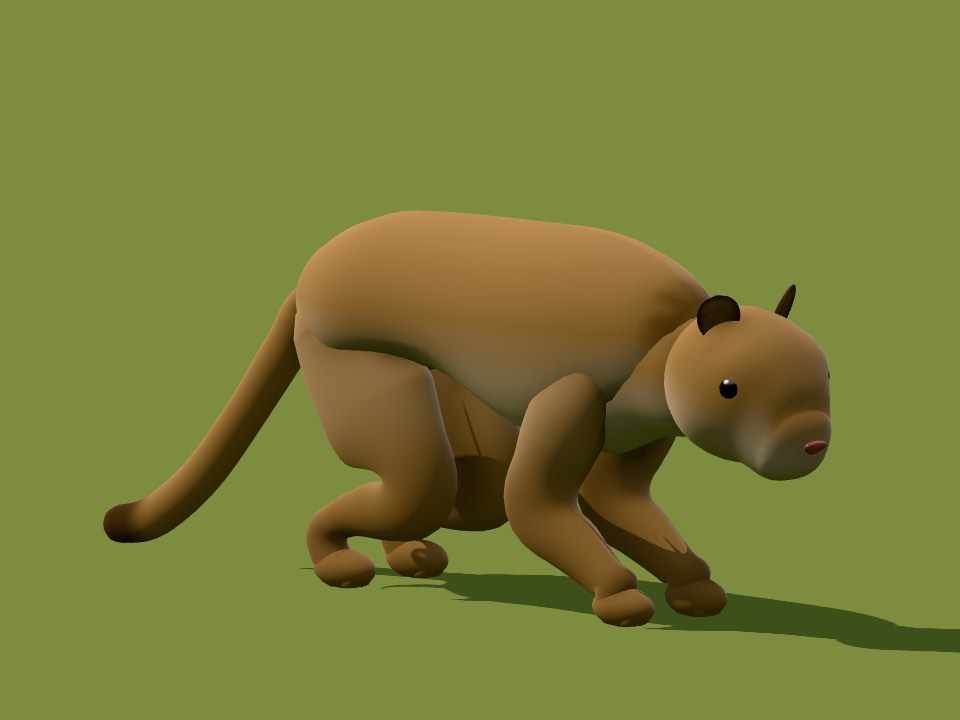
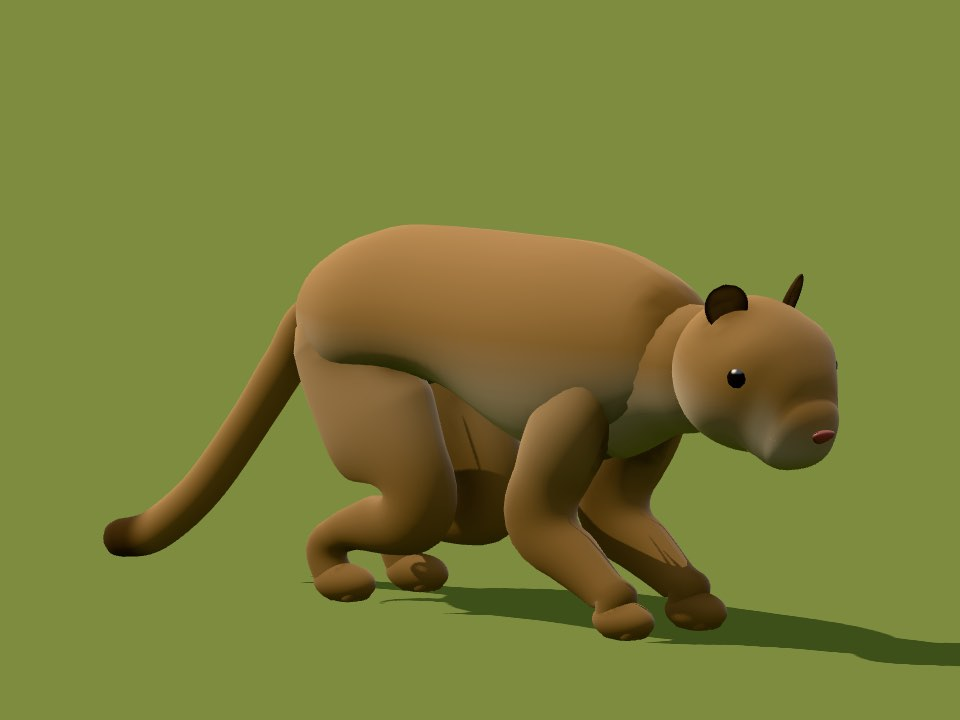
Cougar's round head carried higher, level with the back, so it no longer reads as a hunch (Cole)

Changed region(s): [[0.0938, 0.275, 1.0, 0.9472], [0.75, 0.5194, 0.7812, 0.55]]

diff --git a/js/render3d/animals/quadrupeds.js b/js/render3d/animals/quadrupeds.js
@@ -701,7 +701,8 @@ const MAMMALS = {
       paws: true, toes: plain ? 4 : true, // soft, articulated paws
       // (a plain cat carries a slightly smaller head lower and a little further forward, the skull's top
       // about level with the back, as the photos show)
-      head: plain ? [L * 0.55, by + H * 0.14] : [L * 0.5, by + H * (lion ? 0.3 : 0.38 - k * 0.1)], headR: [H * (lion ? 0.34 : fit ? 0.33 : 0.36) * hs, H * (lion ? 0.31 : fit ? 0.3 : 0.33) * hs, H * (lion ? 0.32 : fit ? 0.24 : 0.34) * hs], snout: H * 0.15 * hs,
+      head: plain ? [L * 0.55, by + H * (fit ? 0.14 : 0.26)] : // (the round head carried higher, toward where the week-old one was: low, it hung below the shoulders as a hunch, Cole)
+         [L * 0.5, by + H * (lion ? 0.3 : 0.38 - k * 0.1)], headR: [H * (lion ? 0.34 : fit ? 0.33 : 0.36) * hs, H * (lion ? 0.31 : fit ? 0.3 : 0.33) * hs, H * (lion ? 0.32 : fit ? 0.24 : 0.34) * hs], snout: H * 0.15 * hs,
       nose: lion || k || plain ? false : undefined, eyeR: lion ? H * 0.038 : plain ? H * 0.0525 : undefined, // (a plain cat's eyes a little bigger than the shared size, Cole 2026-11-27)
       // (crown: a cougar's skull is broad across the top with the ears at its corners; head on, the shared head was a pear)
       ears: lion ? 'none' : s.bobtail ? 'point' : 'round', ear: H * (s.bobtail ? 0.2 : k ? 0.18 : s.rosettes || s.cheetah ? 0.27 : s.clouds ? 0.22 : plain ? 0.185 : 0.24), earTurn: fit ? 0.6 : undefined, earUp: fit ? 0.55 : undefined, earSide: fit ? 0.82 : undefined, crown: fit ? 0.3 : undefined, cheeks: fit ? 0.32 : undefined, pads: fit ? 0.15 : undefined, cleft: fit ? 0.4 : undefined, muzzleTaper: fit ? 0.85 : undefined, muzzleBlend: fit ? 0.6 : undefined, bridge: fit ? 0.75 : undefined, earWidth: plain ? 1.08 : undefined, earInner: plain ? '#b58a6c' : undefined, earOut: 0.2, earBack: 0.1, earW: s.bobtail ? 0.55 : 0.45, tufts: s.bobtail, muzzle: fit ? plainFace(s, H, L, by).muzzle : grad(s.color, s.belly, 0.1, 0.4),

diff --git a/docs/ideas/2026-11-27-cougar-face/README.md b/docs/ideas/2026-11-27-cougar-face/README.md
@@ -63,3 +63,5 @@ marks under the eyes. Built behind `fit = false` in `feline` (quadrupeds.js): tr
 Stalking with the round head: the thicker neck's root showed through the back as the head dipped (Cole).
 Its root now sits lower and further forward in the chest (`neckLow` 0.5) and the neck is a little
 slimmer (0.27 H).
+Then "a hunch back": the round head hung below the shoulders. It's carried higher (by + 0.26 H, was 0.14;
+the week-old one was 0.38), level with the back; flattening the back's arch made no visible difference.
